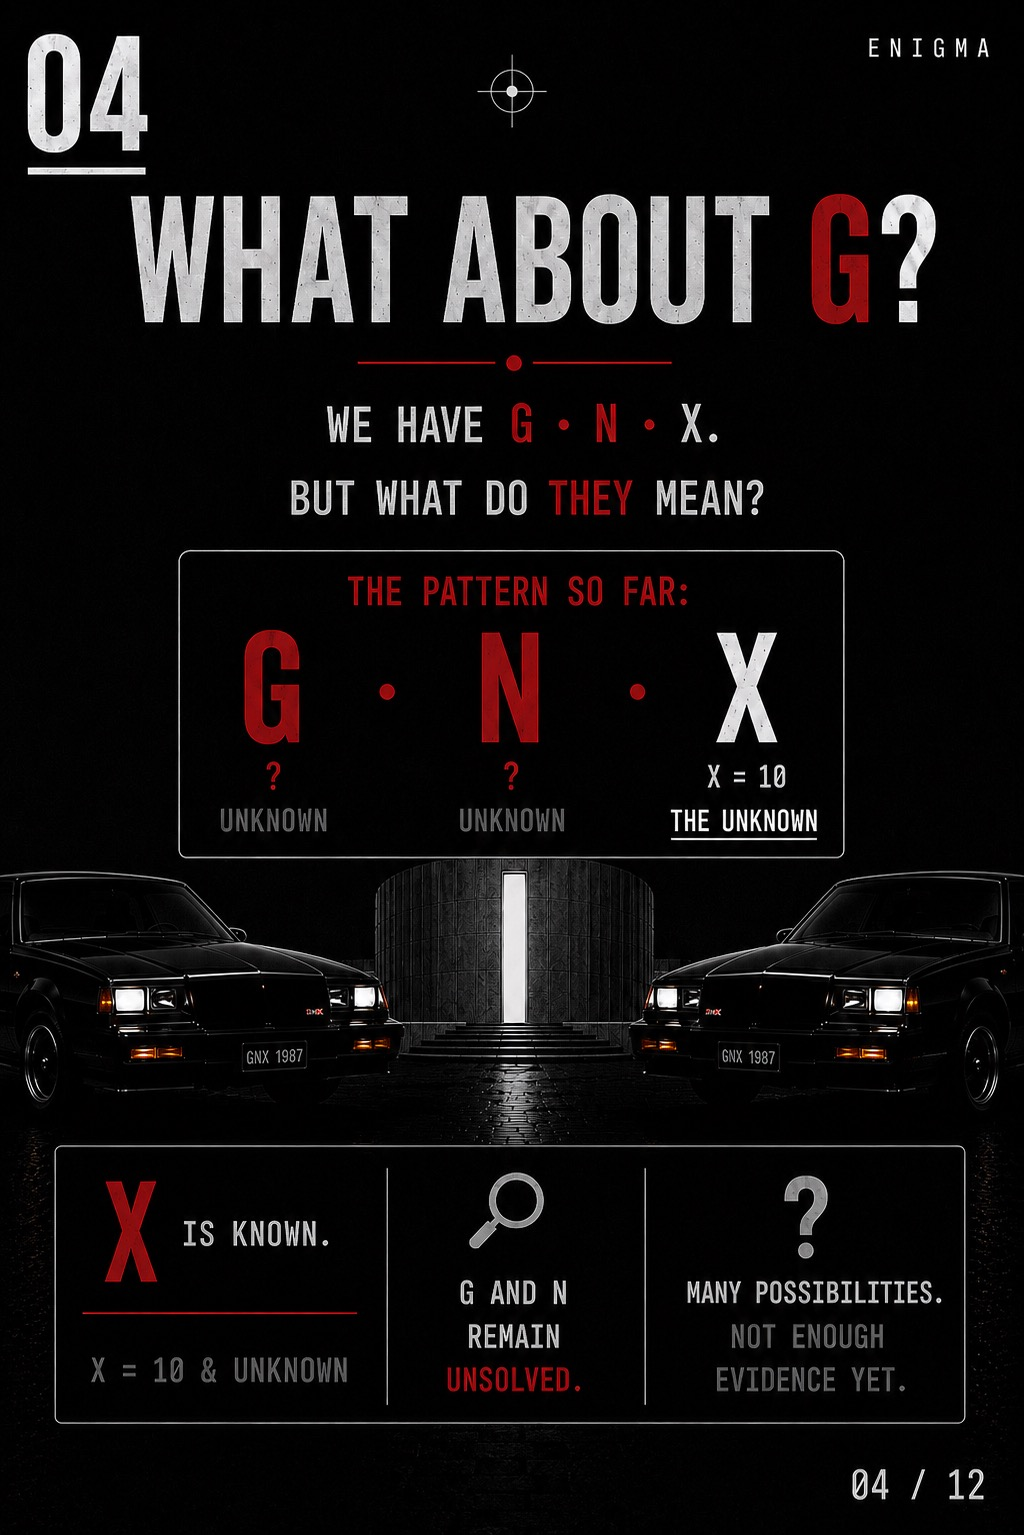
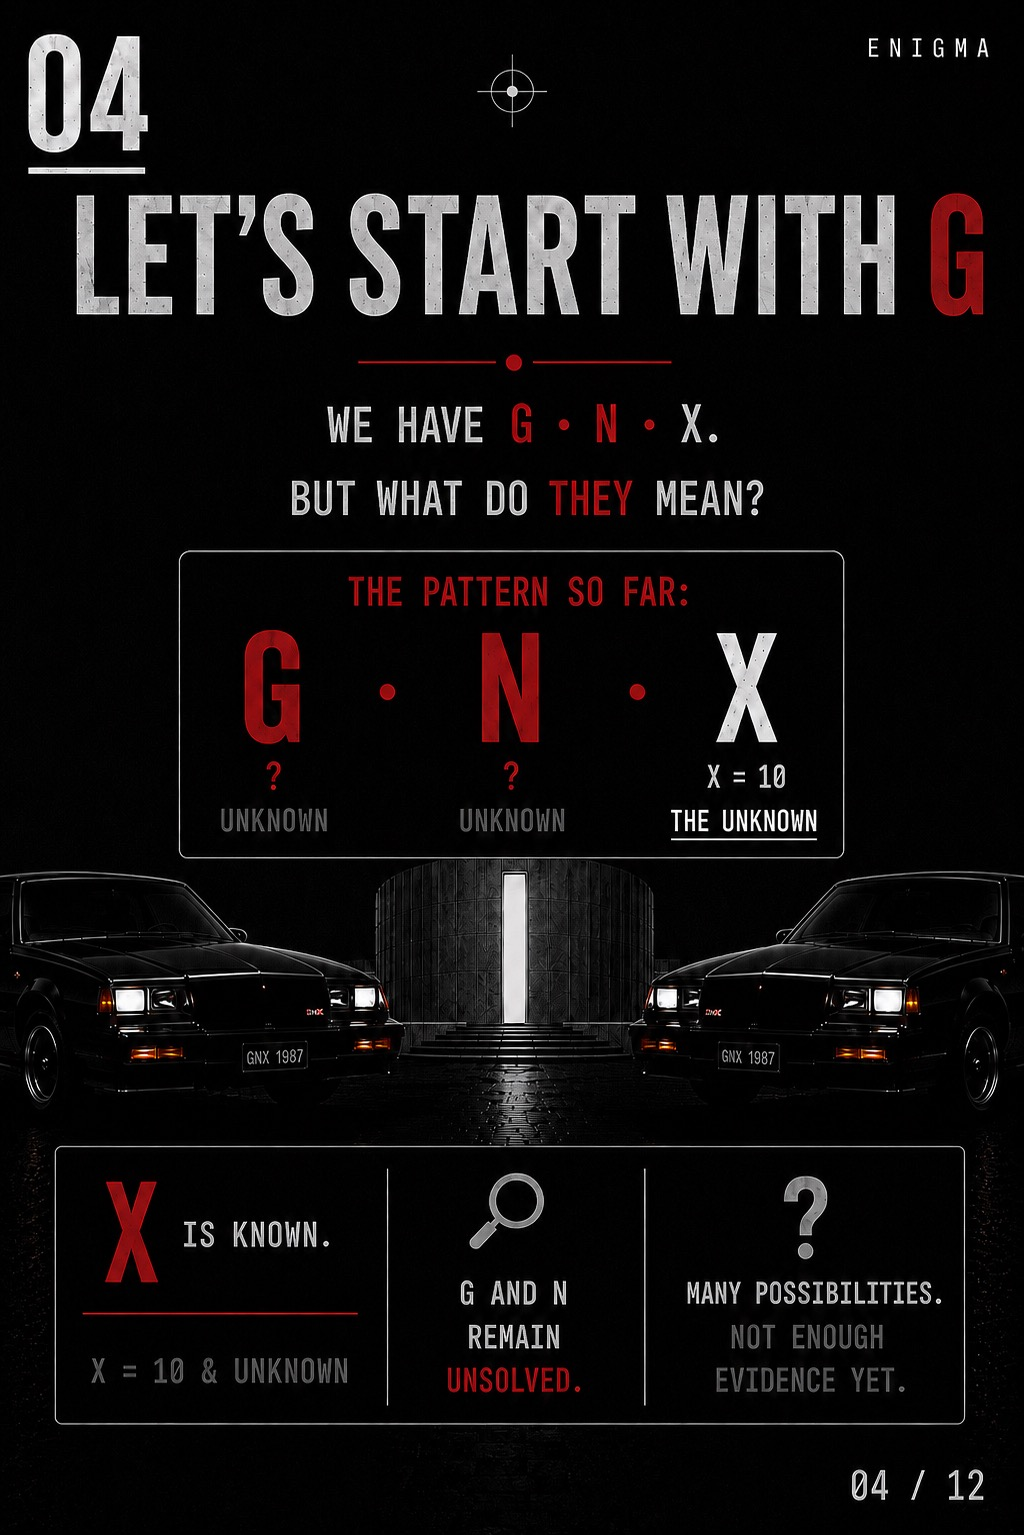
update(gnx): replace slides 4 and 5 with revised artwork
Slide 4 heading now "Let's start with G." Slide 5 icons updated
(Masonic symbol → <G> brackets for Gloria, eye → X for Wacced Out Murals).

diff --git a/src/data/exhibits.ts b/src/data/exhibits.ts
@@ -89,7 +89,7 @@ export const EXHIBITS: Exhibit[] = [
       { src: "/art/exhibits/gnx/gnx01.jpg", alt: "Case #2 — 25 Years Later. 1999: DMX, '…And Then There Was X.' 2024: Kendrick Lamar, GNX. Two cars face each other — one white, one black. (1 of 12)" },
       { src: "/art/exhibits/gnx/gnx02.jpg", alt: "Previously: Case #1 — The Origin of X. Agatha Christie's title trail (1939 slur → 1940 'Ten Little Indians' → 1944 'And Then There Were None') beside DMX = 'Divine Master of the Unknown.' The title changed, the name disappeared, None became X. 25 years later → GNX. Case #1 left us with one question: so what's all this mean — and why does it matter? (2 of 12)" },
       { src: "/art/exhibits/gnx/gnx03.jpg", alt: "The obvious answer: GNX — Grand National eXperimental. Two cars, two meanings? Is 'GNX' a double entendre? (3 of 12)" },
-      { src: "/art/exhibits/gnx/gnx04.jpg", alt: "What about G? We have G · N · X but what do they mean? X is known: X = 10 and the unknown. G and N remain unsolved. Many possibilities, not enough evidence yet. (4 of 12)" },
+      { src: "/art/exhibits/gnx/gnx04.jpg", alt: "Let's start with G. We have G · N · X but what do they mean? X is known: X = 10 and the unknown. G and N remain unsolved. Many possibilities, not enough evidence yet. (4 of 12)" },
       { src: "/art/exhibits/gnx/gnx05.jpg", alt: "What could G mean? If G · N · X is a code, G could be the key that connects it all. GNX tracks examined: TV Off ('This that Alpha and Omega,' Revelation 1:8), Reincarnated (Ecclesiastes 3:11), Man at the Garden (Genesis 2:15, 3:8, John 20:15), Squabble Up ('Gods knows, I am…' — 'I am' is God's name, Exodus 3:14), Wacced Out Murals ('Know you a God,' Psalm 82:6), Gloria (glory, SZA — Euphoria). Do you lack the heart to glorify Euphoria to make it His? (5 of 12)" },
       { src: "/art/exhibits/gnx/gnx06.jpg", alt: "Gloria → Euphoria. 6½ months before SZA wanted to take Gloria to Euphoria on GNX. The Wiz: 'Everything they say about me is true.' What else is hiding in Euphoria? (6 of 12)" },
       { src: "/art/exhibits/gnx/gnx07.jpg", alt: "What's hiding in Euphoria? Clue 01: YNW Melly — Kendrick says 'In 8 bars… I'm YNW Melly.' Y·N·W = Young · N[—] · World → N = N-word? The unknown 'N' just appeared in Euphoria. Clue 02: DMX on The Breakfast Club (2011) about Drake — Kendrick channels DMX's energy in Euphoria with 'I hate the way…' Clue 03: Kendrick on Silent Hill — 'Peekaboo, can't hide behind your money dawg' — a clear shot at Aubrey. Clue 04: Peekaboo on GNX samples Willie Hale's 'Give Me a Helping Hand.' Did Euphoria just give us the N? (7 of 12)" },
